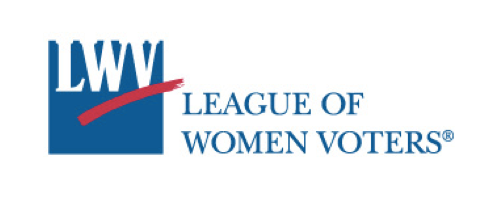
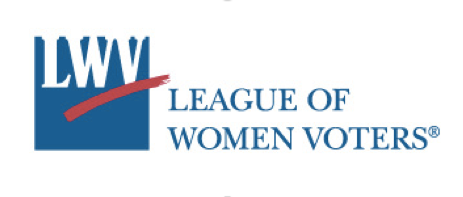
ddd
ddd

Changed region(s): [[0.0605, 0.1827, 0.9676, 0.7919]]

diff --git a/index.html b/index.html
@@ -13,6 +13,7 @@
 	<link href="css/animate.css" rel="stylesheet"> 
 	<link href="css/main.css" rel="stylesheet">
 	<link href="css/responsive.css" rel="stylesheet"> 
+    <link href="css/my-style.css" rel="stylesheet">
 	<!--[if lt IE 9]> <script src="js/html5shiv.js"></script> 
 	<script src="js/respond.min.js"></script> <![endif]--> 
 	<link rel="shortcut icon" href="images/ico/favicon.png"> 
@@ -81,6 +82,52 @@
 	</div> 
 
 </section><!--/#home-->
+    	<div class="text-center">
+			<div class="col-sm-8 col-sm-offset-2">
+				<h2 class="title-one">Why With Us?</h2>
+				<p>Lorem ipsum dolor sit amet, consectetuer adipiscing elit, sed diam nonummy nibh euismod tincidunt ut laoreet dolore magna aliquam erat volutpat. Ut wisi enim ad minim veniam, quis nostrud exerci tation ullamcorper suscipit lobortis nisl ut aliquip ex ea commodo consequat.</p>
+			</div>
+		</div>
+    
+    
+	<section id="services" class="parallax-section">
+		<div class="container">
+			<div class="row text-center">
+				<div class="col-sm-8 col-sm-offset-2">
+					<h2 class="title-one">Services</h2>
+					<p>Lorem ipsum dolor sit amet, consectetuer adipiscing elit, sed diam nonummy nibh euismod tincidunt ut laoreet dolore magna aliquam erat volutpat. Ut wisi enim ad minim veniam, quis nostrud exerci tation ullamcorper suscipit lobortis nisl ut aliquip ex ea commodo consequat.</p>
+				</div>
+			</div>
+			<div class="row">
+				<div class="col-sm-12">
+					<div class="our-service">
+						<div class="services row">
+							<div class="col-sm-4">
+								<div class="single-service">
+									<i class="fa fa-th"></i>
+									<h2>Modern Design</h2>
+									<p>Lorem ipsum dolor sit amet, consectetuer adipiscing elit, sed diam nonummy nibh euismod tincidunt ut laoreet dolore magna aliquam erat volutpat. Ut wisi enim ad minim veniam, quis nostrud exerci tation ullamcorper suscipit lobortis nisl ut aliquip ex ea commodo consequat. Lorem ipsum dolor sit amet, consectetuer adipiscing elit, sed diam nonummy nibh euismod tincidunt ut laoreet dolore.</p>
+								</div>
+							</div>
+							<div class="col-sm-4">
+								<div class="single-service">
+									<i class="fa fa-html5"></i>
+									<h2>Web Development</h2>
+									<p>Lorem ipsum dolor sit amet, consectetuer adipiscing elit, sed diam nonummy nibh euismod tincidunt ut laoreet dolore magna aliquam erat volutpat. Ut wisi enim ad minim veniam, quis nostrud exerci tation ullamcorper suscipit lobortis nisl ut aliquip ex ea commodo consequat.Lorem ipsum dolor sit amet, consectetuer adipiscing elit, sed diam nonummy </p>
+								</div>
+							</div>
+							<div class="col-sm-4">
+								<div class="single-service">
+									<i class="fa fa-users"></i>
+									<h2>Online Marketing</h2>
+									<p>Lorem ipsum dolor sit amet, consectetuer adipiscing elit, sed diam nonummy nibh euismod tincidunt ut laoreet dolore magna aliquam erat volutpat. Ut wisi enim ad minim veniam, quis nostrud exerci tation ullamcorper suscipit lobortis nisl ut aliquip ex ea commodo consequat.Lorem ipsum dolor sit amet, consectetuer adipiscing elit, sed diam nonummy nibh euismod tincidunt ut laoreet dolore.</p>
+								</div>
+							</div></div>
+						</div>
+					</div>
+				</div>
+			</div>
+		</section><!--/#service-->
 
 
 
@@ -100,8 +147,8 @@
 							<div class="row">
 								<div class="col-sm-4">
 									<div class="single-blog">
-										<img src="images/lwv2.png" alt="" />
-										<h2>League of Women Voters of the Austin Area</h2>
+										<img class="imgport" src="images/lwv2.png" alt="" />
+										<h2>League of Women Voters</h2>
                                         <ul class="post-meta">
 											<li><i class="fa fa-pencil-square-o"></i><strong> Posted By:</strong> John</li>
 											<li><i class="fa fa-clock-o"></i><strong> Posted On:</strong> Apr 15 2014</li>
@@ -118,7 +165,7 @@
 											<div class="modal-content">
 												<div class="modal-body">
 													<button type="button" class="close" data-dismiss="modal" aria-hidden="true">&times;</button>
-													<img src="images/blog/3.jpg" alt="" />
+													<img src="images/progresss.jpg" alt="" />
 													<h2>Lorem ipsum dolor sit amet</h2>
 													<p>Lorem ipsum dolor sit amet, consectetuer adipiscing elit, sed diam nonummy nibh euismod tincidunt ut laoreet dolore magna aliquam erat volutpat.Lorem ipsum dolor sit amet, consectetuer adipiscing elit, sed diam nonummy nibh euismod tincidunt ut laoreet dolore magna aliquam erat volutpat.Lorem ipsum dolor sit amet, consectetuer adipiscing elit, sed diam nonummy nibh euismod tincidunt ut laoreet dolore magna aliquam erat volutpat.</p><p>Lorem ipsum dolor sit amet, consectetuer adipiscing elit, sed diam nonummy nibh euismod tincidunt ut laoreet dolore magna aliquam erat volutpat.Lorem ipsum dolor sit amet, consectetuer adipiscing elit, sed diam nonummy nibh euismod tincidunt ut laoreet dolore magna aliquam erat volutpat.Lorem ipsum dolor sit amet, consectetuer adipiscing elit, sed diam nonummy nibh euismod tincidunt ut laoreet dolore magna aliquam erat volutpat.</p>
 												</div> 
@@ -128,7 +175,7 @@
 								</div>
 								<div class="col-sm-4">
 									<div class="single-blog">
-										<img src="images/blog/2.jpg" alt="" />
+										<img class="imgport" src="images/progresss.jpg" height:200px alt="" />
 										<h2>Lorem ipsum dolor sit amet</h2>
 										<ul class="post-meta">
 											<li><i class="fa fa-pencil-square-o"></i><strong> Posted By:</strong> John</li>
@@ -154,7 +201,7 @@
 								</div>
 								<div class="col-sm-4">
 									<div class="single-blog">
-										<img src="images/blog/3.jpg" alt="" />
+										<img class="imgport" src="images/blog/3.jpg" alt="" />
 										<h2>Lorem ipsum dolor sit amet</h2>
 										<ul class="post-meta">
 											<li><i class="fa fa-pencil-square-o"></i><strong> Posted By:</strong> John</li>
@@ -180,7 +227,7 @@
 								</div>
 								<div class="col-sm-4">
 									<div class="single-blog">
-										<img src="images/blog/3.jpg" alt="" />
+										<img class="imgport" src="images/blog/3.jpg" alt="" />
 										<h2>Lorem ipsum dolor sit amet</h2>
 										<ul class="post-meta">
 											<li><i class="fa fa-pencil-square-o"></i><strong> Posted By:</strong> John</li>
@@ -205,7 +252,7 @@
 									</div>
 									<div class="col-sm-4">
 										<div class="single-blog">
-											<img src="images/blog/2.jpg" alt="" />
+											<img class="imgport" src="images/blog/2.jpg" alt="" />
 											<h2>Lorem ipsum dolor sit amet</h2>
 											<ul class="post-meta">
 												<li><i class="fa fa-pencil-square-o"></i><strong> Posted By:</strong> John</li>
@@ -232,7 +279,7 @@
 
 									<div class="col-sm-4">
 										<div class="single-blog">
-											<img src="images/blog/1.jpg" alt="" />
+											<img class="imgport" src="images/blog/1.jpg" alt="" />
 											<h2>Lorem ipsum dolor sit amet</h2>
 											<ul class="post-meta">
 												<li><i class="fa fa-pencil-square-o"></i><strong> Posted By:</strong> John</li>
@@ -252,7 +299,7 @@
 														<h2>Lorem ipsum dolor sit amet</h2>
 														<p>Lorem ipsum dolor sit amet, consectetuer adipiscing elit, sed diam nonummy nibh euismod tincidunt ut laoreet dolore magna aliquam erat volutpat.Lorem ipsum dolor sit amet, consectetuer adipiscing elit, sed diam nonummy nibh euismod tincidunt ut laoreet dolore magna aliquam erat volutpat.Lorem ipsum dolor sit amet, consectetuer adipiscing elit, sed diam nonummy nibh euismod tincidunt ut laoreet dolore magna aliquam erat volutpat.</p><p>Lorem ipsum dolor sit amet, consectetuer adipiscing elit, sed diam nonummy nibh euismod tincidunt ut laoreet dolore magna aliquam erat volutpat.Lorem ipsum dolor sit amet, consectetuer adipiscing elit, sed diam nonummy nibh euismod tincidunt ut laoreet dolore magna aliquam erat volutpat.Lorem ipsum dolor sit amet, consectetuer adipiscing elit, sed diam nonummy nibh euismod tincidunt ut laoreet dolore magna aliquam erat volutpat.</p>
 													</div> 
-												</div>
+</div>
 											</div>
 										</div>
 									</div> 

diff --git a/lwv.html b/lwv.html
@@ -15,7 +15,7 @@
     <link href="css/bootstrap.min.css" rel="stylesheet">
 
     <!-- Custom CSS -->
-    <link href="css/lwv.css" rel="stylesheet">
+    <link href="css/my-style.css" rel="stylesheet">
     <link href="css/main.css" rel="stylesheet">
 
     <!-- HTML5 Shim and Respond.js IE8 support of HTML5 elements and media queries -->

diff --git a/css/main.css b/css/main.css
@@ -603,7 +603,7 @@ h1, h2, h3, h4, h5, h6 {
 ======================*/
 
 #services {
-  background-image: url("../images/services/service-bg.jpg");
+  background-image: url("../images/ryangreencircle.jpg");
   color:#fff;
   text-align:center;
   background-color:	#0A0A13;

diff --git a/css/my-style.css b/css/my-style.css
@@ -19,3 +19,11 @@ footer {
 li {
     text-decoration:none;
 }
+
+.imgport {
+    height:125px;
+}
+
+.parallax-section {
+   margin-top:200px;
+}
